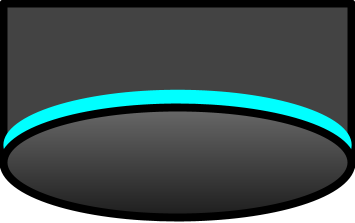
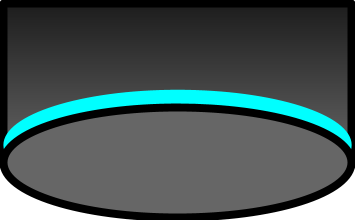
Fix links, typos, lighting

diff --git a/subpages/snowsweeper/page.html b/subpages/snowsweeper/page.html
@@ -130,7 +130,7 @@
     <p class="c0"></p>
     <p class="c1"><span>
         I had intended to make a small Minesweeper app to put on my personal statement as a small achievement. 
-        But then the idea to add in factory elemetns came along. 
+        But then the idea to add in factory elements came along. 
         So for four or five consecutive term breaks I have promised myself that I would finish Snowsweeper before the next term period. 
         </span></p>
     <p class="c0"></p>
@@ -152,9 +152,6 @@
         By the time I graduate I will definitely have finished Snowsweeper. Slowly but surely. 
         I promise. I hope.</span></p>
     <p class="c0"></p>
-    <p class="c1"><span>
-        <a href="https://docs.google.com/spreadsheets/d/1-AhhZRT7gPKFjoeqgNt271tiFqPCmCXVXbWKUiqkCO8/#gid=0">Visit AAZ here</a>
-    <p class="c0"></p> 
     <p class="c0"></p>
 </body>
 

diff --git a/subpages/cellulart/page.html b/subpages/cellulart/page.html
@@ -157,8 +157,8 @@
         an unfinished product.</span></p>
     <p class="c0"></p>
     <p class="c1"><span>Get the extension for
-        <a href="https://kuixz.itch.io/mikoban">Chrome</a>
-        or <a href="https://kuixz.itch.io/mikoban">Firefox</a></span></p>
+        <a href="https://chromewebstore.google.com/u/1/detail/pjeenahidnpjaajbiidagnackjdhnlam">Chrome</a>
+        or <a href="https://addons.mozilla.org/en-US/firefox/addon/gartic-cellulart">Firefox</a></span></p>
     <p class="c0"></p>
     <p class="c1"><span>
         P.S. As thanks for visiting my website, here&rsquo;s a fun fact: 
